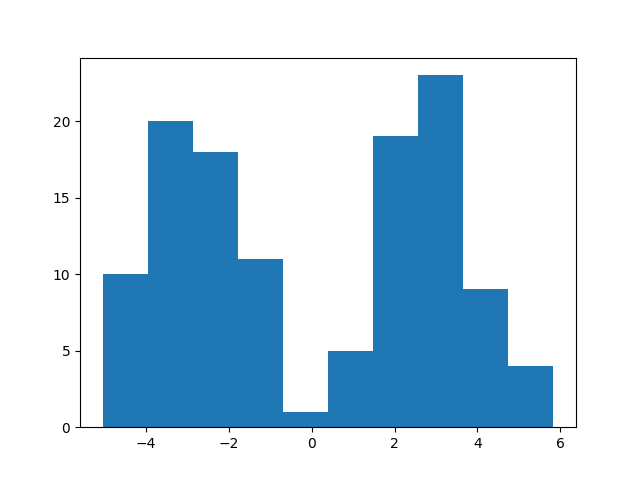
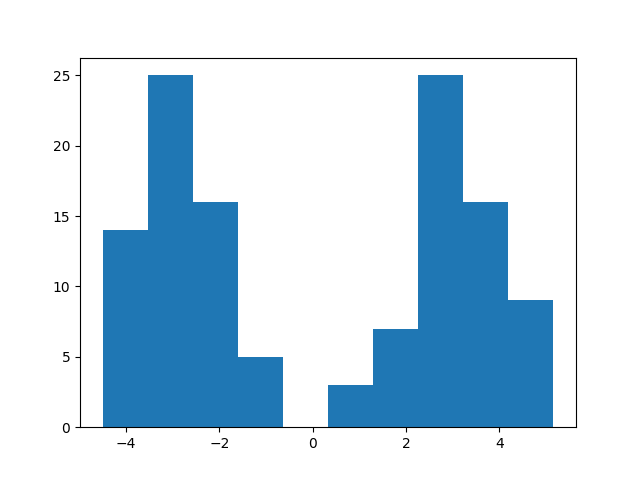
more mechanism tests + cleanup

diff --git a/tests/test_mechanism.py b/tests/test_mechanism.py
@@ -134,7 +134,7 @@ class RegresionMechanismTest(TestCase):
         inputs = b.get_in_node_data()
         self.assertSetEqual(set(inputs.keys()), {"a", "c"})
         regression = RegressionMechanism(formulas, inputs)
-        result = regression.transform(flatten=True)
+        result = regression.transform()
         self.assertEqual(result.shape, (3000,))
         self.assertTrue(all(np.isfinite(result)))
 
@@ -258,3 +258,31 @@ class ClassficationMechanismTest(TestCase):
             classification = ClassificationMechanism(formulas, input)
             result = classification.transform()
             self.assertListEqual(result.tolist(), expected)
+
+    def test_graph_mechanism(self):
+        graph = Graph()
+        graph.add_node()  # a
+        graph.add_node()  # b
+        graph.add_node()  # c
+
+        a = graph.get_node_by_id('a')
+        b = graph.get_node_by_id('b')
+        c = graph.get_node_by_id('c')
+
+        graph.add_edge(a, b)
+        graph.add_edge(c, b)
+
+        a.data.add_distribution()
+        a.data.get_distribution_by_id('0').parameters["loc"].change_current(-2.)
+        a.data.get_distribution_by_id('1').parameters["loc"].change_current(2.)
+
+        c.data.add_distribution()
+        c.data.get_distribution_by_id('0').parameters["loc"].change_current(-4.)
+        c.data.get_distribution_by_id('1').parameters["loc"].change_current(4.)
+
+        formulas = ["(a > 2.0) & (c > 4.0)", "(a < -2.0) & (c < -4.0)"]
+        inputs = b.get_in_node_data()
+        self.assertSetEqual(set(inputs.keys()), {"a", "c"})
+        classifcation = ClassificationMechanism(formulas, inputs)
+        result = classifcation.transform()
+        self.assertEqual(result.shape, (3, 3000))

diff --git a/tests/test_noise.py b/tests/test_noise.py
@@ -40,8 +40,7 @@ class DataTest(TestCase):
         data.get_distribution_by_id('0').get_parameter_by_name("scale").change_current(3)  # type: ignore
 
         values = data.generate_data()
-        self.assertEqual(len(values), 1)
-        self.assertEqual(len(values[0]), 120)
+        self.assertEqual(len(values), 120)
         # check graph in files
         plt.hist(values)
         plt.savefig("simple_distribution.png")
@@ -54,10 +53,7 @@ class DataTest(TestCase):
         data.get_distribution_by_id('1').get_parameter_by_name("loc").change_current(3)  # type: ignore
 
         values = data.generate_data()
-        self.assertEqual(len(values), 2)
-        self.assertEqual(len(values[0]), 60)
-        self.assertEqual(len(values[1]), 60)
-        values = [v for vl in values for v in vl]
+        self.assertEqual(len(values), 120)
         # check graph in files
         plt.hist(values)
         plt.savefig("double_distribution.png")
@@ -72,11 +68,7 @@ class DataTest(TestCase):
         data.get_distribution_by_id('2').get_parameter_by_name("loc").change_current(4)  # type: ignore
 
         values = data.generate_data()
-        self.assertEqual(len(values), 3)
-        self.assertEqual(len(values[0]), 40)
-        self.assertEqual(len(values[1]), 40)
-        self.assertEqual(len(values[2]), 40)
-        values = [v for vl in values for v in vl]
+        self.assertEqual(len(values), 120)
         # check graph in files
         plt.hist(values)
         plt.savefig("triple_distribution.png")

diff --git a/src/models/mechanism.py b/src/models/mechanism.py
@@ -45,12 +45,12 @@ fabs = np.fabs
 
 
 class BaseMechanism:
-    def __init__(self, formulas: list[str], inputs: dict[str, list[float]]):
+    def __init__(self, formulas: list[str], inputs: dict[str, NDArray]):
         self.formulas = formulas
         self.inputs = inputs
         self.values = {k: np.array(v, dtype=np.float128) for k, v in self.inputs.items()}
 
-    def transform(self):
+    def transform(self, flatten=False):
         raise NotImplementedError()
 
 
@@ -58,7 +58,7 @@ MechanismType = TypeVar("MechanismType", bound=BaseMechanism)
 
 
 class RegressionMechanism(BaseMechanism):
-    def transform(self, flatten=False):
+    def transform(self):
         tree = ast.parse(self.formulas[0])
         for node in ast.walk(tree):
             # replace variables with inputs
@@ -71,13 +71,13 @@ class RegressionMechanism(BaseMechanism):
             print(e)
             result = np.zeros(len(list(self.inputs.values())[0]))
 
-
-        return result.flatten() if flatten else result
+        return result
 
 
 class ClassificationMechanism(BaseMechanism):
     def transform(self):
         # dimensions: x(number of classes), y(number of inputs) -> each input can have own dimension
+        self.inputs = {k: np.array(v).flatten() for k, v in self.inputs.items()}
         results = np.full((len(self.formulas), len(list(self.inputs.values())[0])), False)
 
         failed = False

diff --git a/src/models/noise.py b/src/models/noise.py
@@ -2,6 +2,7 @@ from scipy.stats import rv_continuous as RVCont, rv_discrete as RVDisc
 import scipy.stats as stats
 from dataclasses import dataclass, field
 from models.mechanism import BaseMechanism
+import numpy as np
 
 
 class CONSTANTS:
@@ -153,5 +154,5 @@ class Data:
             new_values = distribution.generator.rvs(**parameter_values, size=nr_points)
             values.append(new_values)
 
-        return values
+        return np.array(values).flatten()
 
